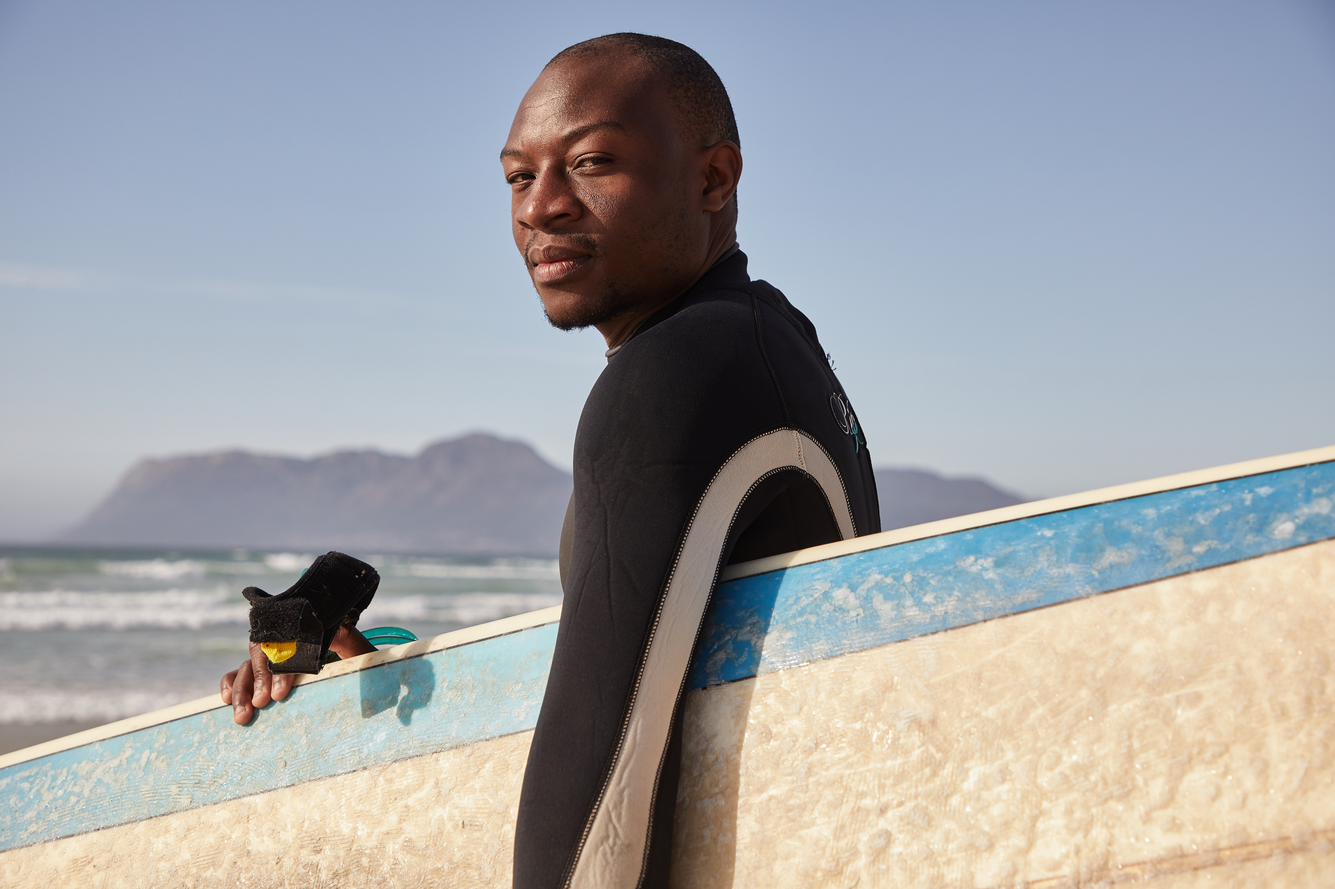
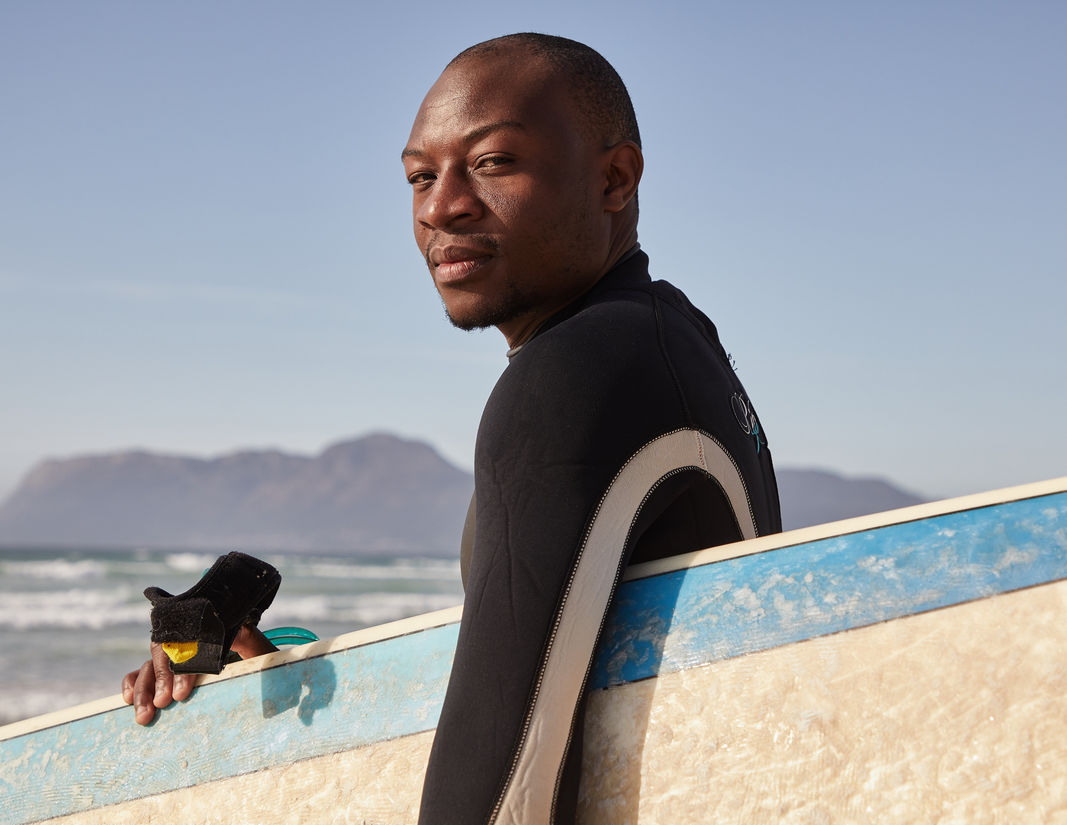
S

diff --git a/team.css b/team.css
@@ -324,7 +324,7 @@ body {
  width: 100%;
  height: 100vh;
  border: none;
- background: url("./background/pexels-cottonbro-9632574.jpg");
+ background: url("./Images/pexels-tirachard-kumtanom-887821.jpg");
  background-size: cover;
  background-repeat: no-repeat;
  background-position: center;
